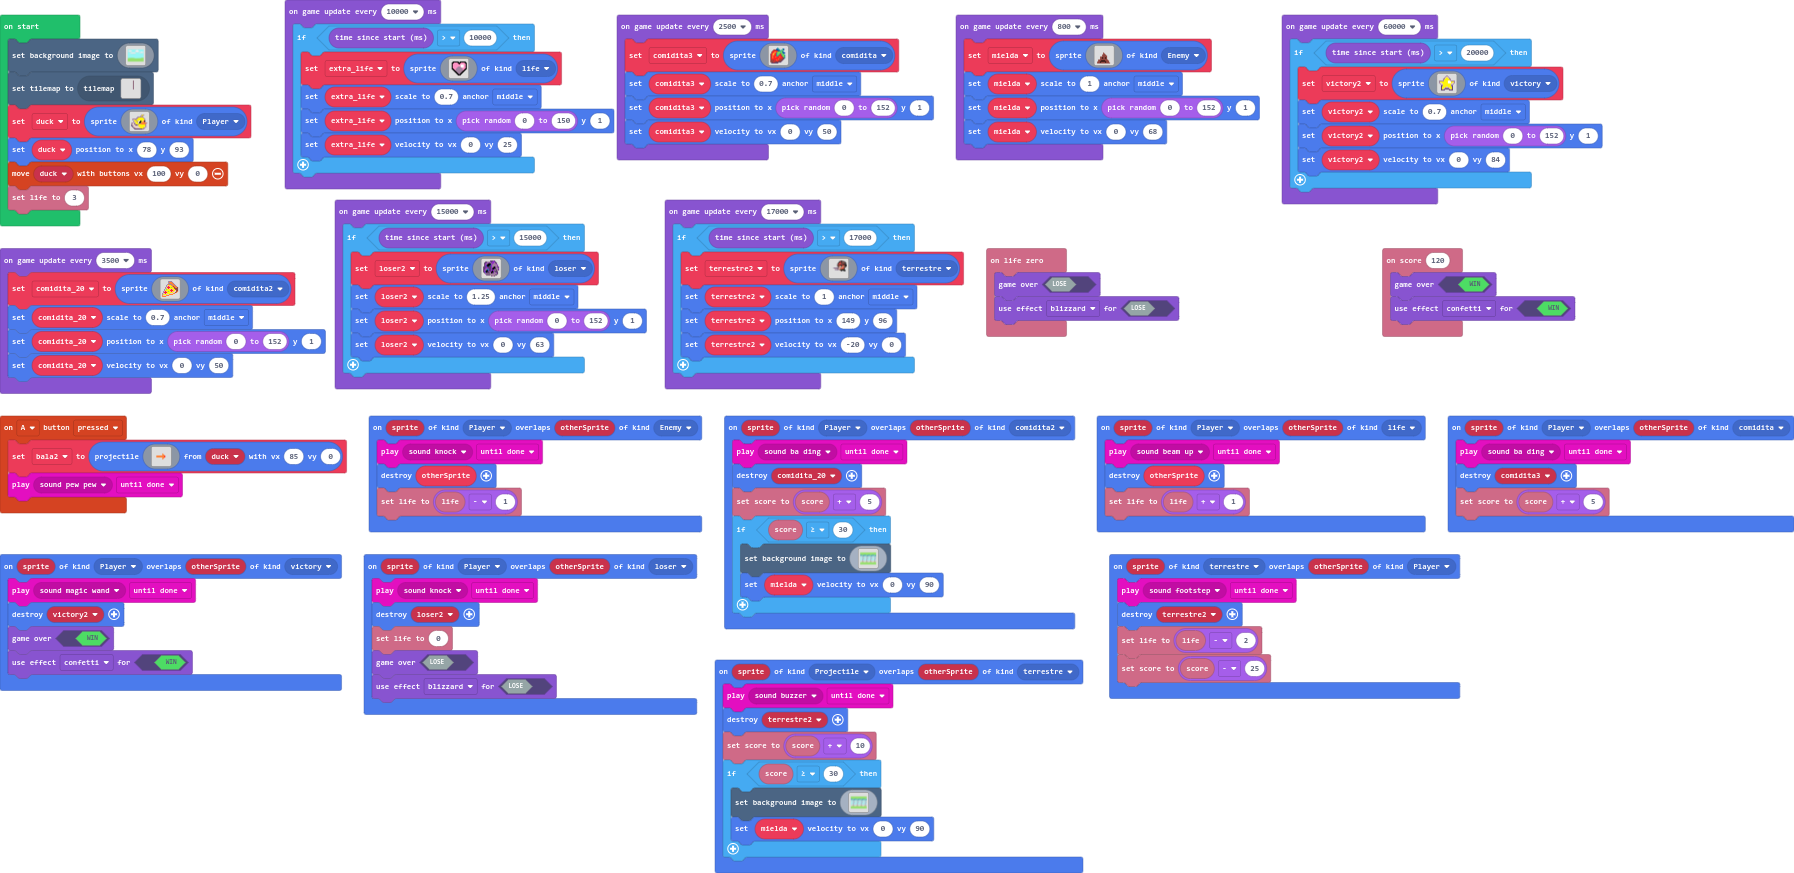
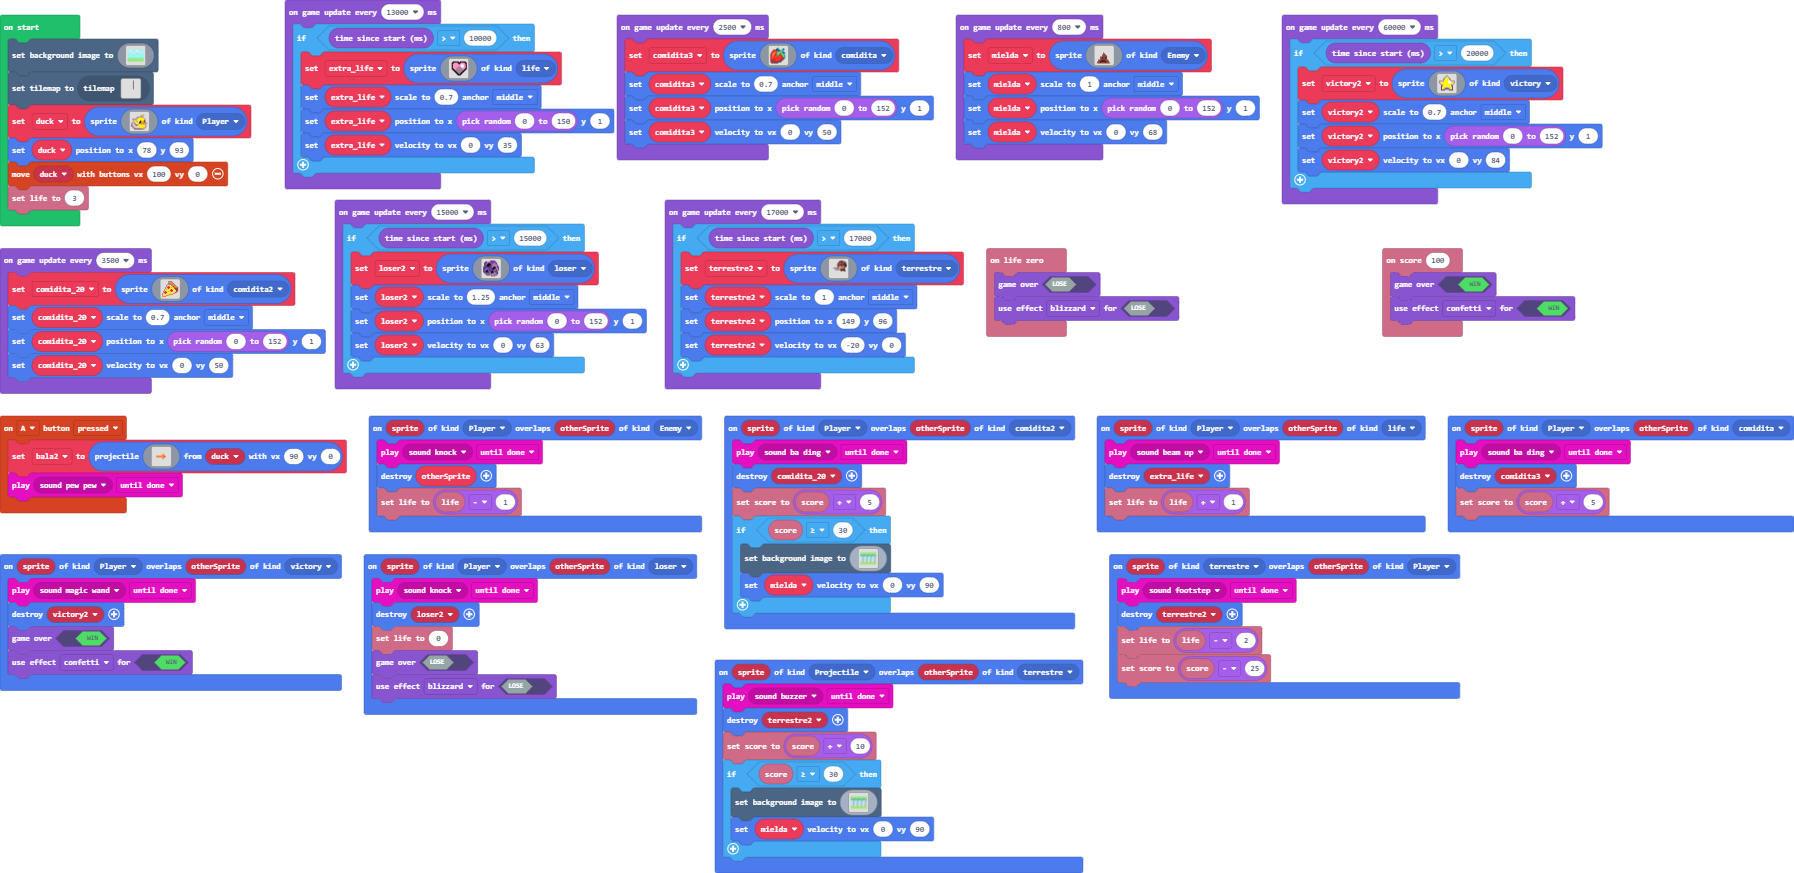
final definitivo??

diff --git a/main.ts b/main.ts
@@ -25,7 +25,7 @@ controller.A.onEvent(ControllerButtonEvent.Pressed, function () {
         . . . . . . . . . . . . . . . . 
         . . . . . . . . . . . . . . . . 
         . . . . . . . . . . . . . . . . 
-        `, duck, 85, 0)
+        `, duck, 90, 0)
     music.play(music.melodyPlayable(music.pewPew), music.PlaybackMode.UntilDone)
 })
 sprites.onOverlap(SpriteKind.terrestre, SpriteKind.Player, function (sprite, otherSprite) {
@@ -168,6 +168,10 @@ sprites.onOverlap(SpriteKind.Projectile, SpriteKind.terrestre, function (sprite,
             `)
         mielda.setVelocity(0, 90)
     }
+})
+info.onScore(100, function () {
+    game.gameOver(true)
+    game.setGameOverEffect(true, effects.confetti)
 })
 sprites.onOverlap(SpriteKind.Player, SpriteKind.comidita2, function (sprite, otherSprite) {
     music.play(music.melodyPlayable(music.baDing), music.PlaybackMode.UntilDone)
@@ -312,7 +316,7 @@ info.onLifeZero(function () {
 })
 sprites.onOverlap(SpriteKind.Player, SpriteKind.life, function (sprite, otherSprite) {
     music.play(music.melodyPlayable(music.beamUp), music.PlaybackMode.UntilDone)
-    sprites.destroy(otherSprite)
+    sprites.destroy(extra_life)
     info.setLife(info.life() + 1)
 })
 sprites.onOverlap(SpriteKind.Player, SpriteKind.victory, function (sprite, otherSprite) {
@@ -321,17 +325,13 @@ sprites.onOverlap(SpriteKind.Player, SpriteKind.victory, function (sprite, other
     game.gameOver(true)
     game.setGameOverEffect(true, effects.confetti)
 })
-info.onScore(120, function () {
-    game.gameOver(true)
-    game.setGameOverEffect(true, effects.confetti)
-})
 sprites.onOverlap(SpriteKind.Player, SpriteKind.Enemy, function (sprite, otherSprite) {
     music.play(music.melodyPlayable(music.knock), music.PlaybackMode.UntilDone)
     sprites.destroy(otherSprite)
     info.setLife(info.life() - 1)
 })
-let extra_life: Sprite = null
 let victory2: Sprite = null
+let extra_life: Sprite = null
 let loser2: Sprite = null
 let comidita_20: Sprite = null
 let mielda: Sprite = null
@@ -612,6 +612,31 @@ game.onUpdateInterval(60000, function () {
         victory2.setVelocity(0, 84)
     }
 })
+game.onUpdateInterval(13000, function () {
+    if (game.runtime() > 10000) {
+        extra_life = sprites.create(img`
+            . . . . . . . . . . . . . . . . 
+            . . f f f f f f . f f f f f f . 
+            . f f 3 3 3 3 f f f 3 3 3 3 f f 
+            . f 3 3 3 3 3 3 f 3 3 3 3 3 3 f 
+            . f 3 3 3 3 3 3 3 3 1 1 1 3 3 f 
+            . f 3 3 3 3 3 3 3 3 1 1 1 3 3 f 
+            . f 3 3 3 3 3 b b b 1 1 1 3 3 f 
+            . f 3 3 3 3 b b b b b 3 3 3 3 f 
+            . f f 3 3 b b b b b b b 3 3 f f 
+            . . f f 3 b b b b b b b 3 f f . 
+            . . . f f b b b b b b b f f . . 
+            . . . . f f b b b b b f f . . . 
+            . . . . . f f b b b f f . . . . 
+            . . . . . . f f b f f . . . . . 
+            . . . . . . . f f f . . . . . . 
+            . . . . . . . . . . . . . . . . 
+            `, SpriteKind.life)
+        extra_life.setScale(0.7, ScaleAnchor.Middle)
+        extra_life.setPosition(randint(0, 150), 1)
+        extra_life.setVelocity(0, 35)
+    }
+})
 game.onUpdateInterval(3500, function () {
     comidita_20 = sprites.create(img`
         . . . . . . b b b b . . . . . . 
@@ -634,29 +659,4 @@ game.onUpdateInterval(3500, function () {
     comidita_20.setScale(0.7, ScaleAnchor.Middle)
     comidita_20.setPosition(randint(0, 152), 1)
     comidita_20.setVelocity(0, 50)
-})
-game.onUpdateInterval(10000, function () {
-    if (game.runtime() > 10000) {
-        extra_life = sprites.create(img`
-            . . . . . . . . . . . . . . . . 
-            . . f f f f f f . f f f f f f . 
-            . f f 3 3 3 3 f f f 3 3 3 3 f f 
-            . f 3 3 3 3 3 3 f 3 3 3 3 3 3 f 
-            . f 3 3 3 3 3 3 3 3 1 1 1 3 3 f 
-            . f 3 3 3 3 3 3 3 3 1 1 1 3 3 f 
-            . f 3 3 3 3 3 b b b 1 1 1 3 3 f 
-            . f 3 3 3 3 b b b b b 3 3 3 3 f 
-            . f f 3 3 b b b b b b b 3 3 f f 
-            . . f f 3 b b b b b b b 3 f f . 
-            . . . f f b b b b b b b f f . . 
-            . . . . f f b b b b b f f . . . 
-            . . . . . f f b b b f f . . . . 
-            . . . . . . f f b f f . . . . . 
-            . . . . . . . f f f . . . . . . 
-            . . . . . . . . . . . . . . . . 
-            `, SpriteKind.life)
-        extra_life.setScale(0.7, ScaleAnchor.Middle)
-        extra_life.setPosition(randint(0, 150), 1)
-        extra_life.setVelocity(0, 25)
-    }
 })
